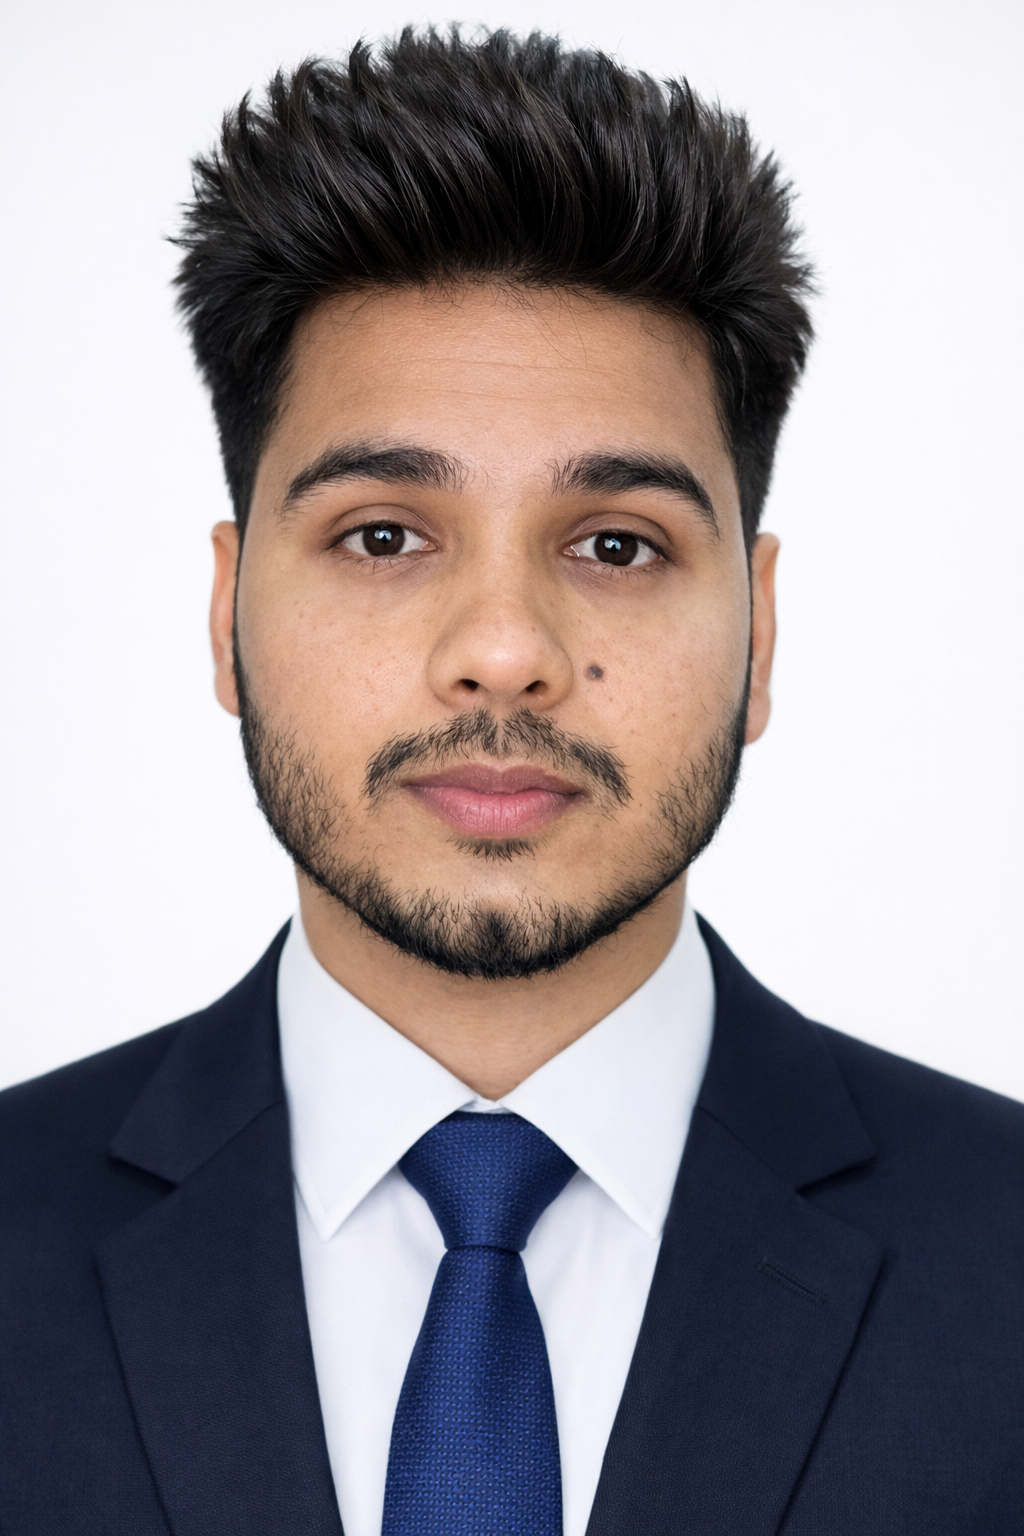
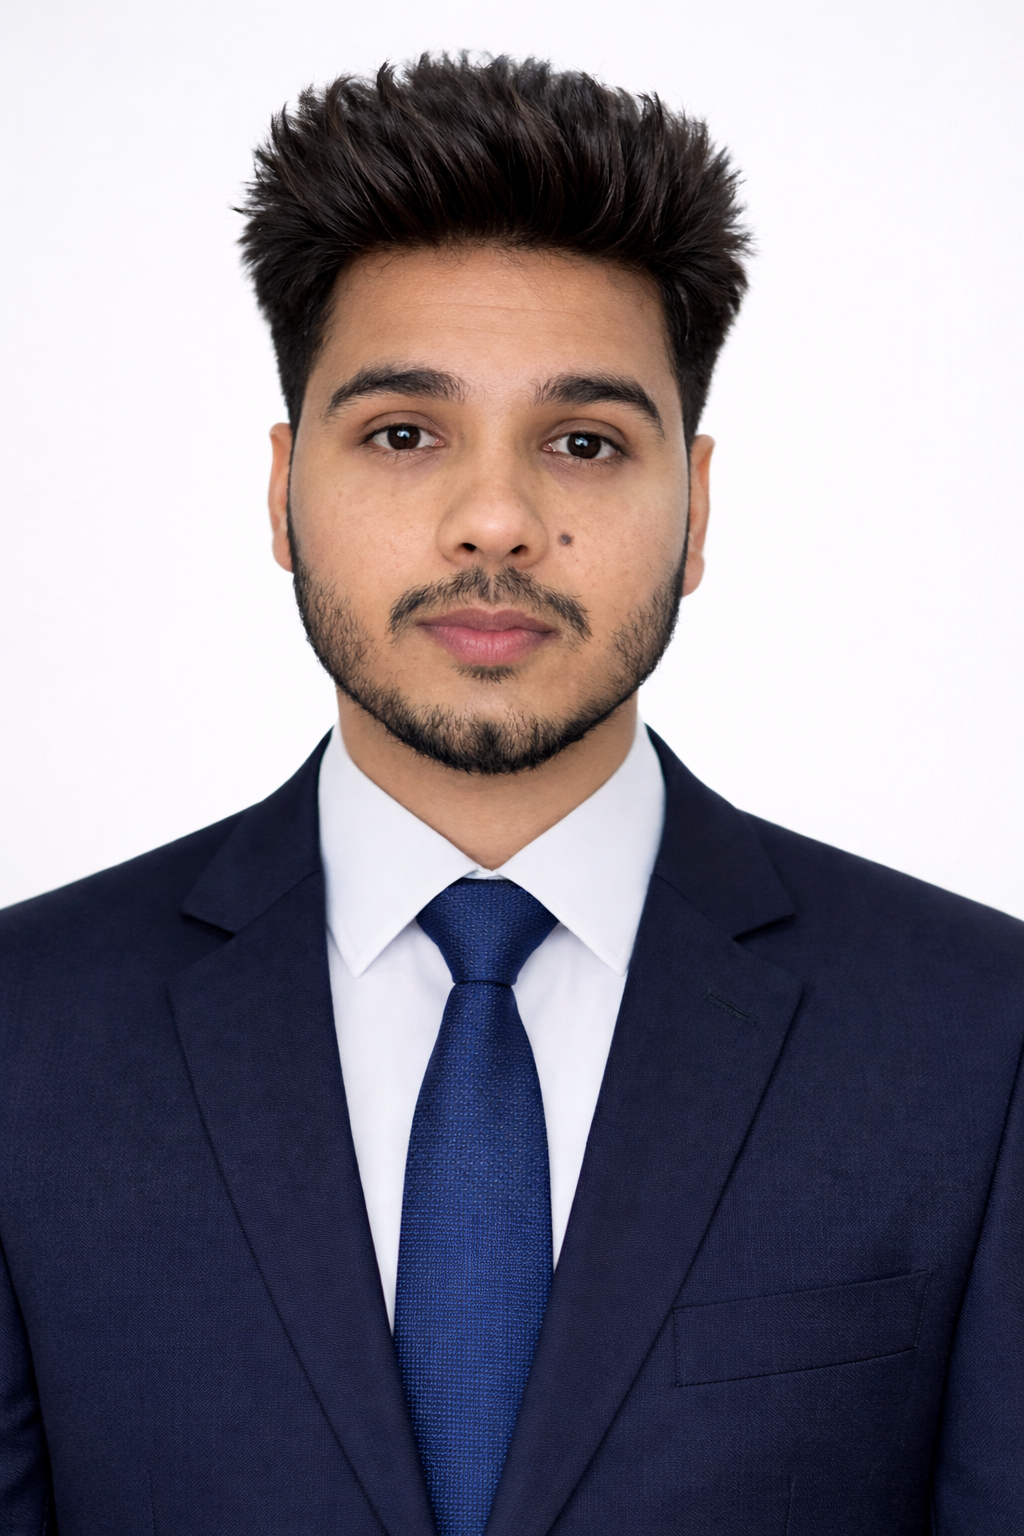
updated profile image and styling fix

diff --git a/projects.html b/projects.html
@@ -137,8 +137,10 @@
                         <span>JavaScript</span>
                     </div>
                     <div class="project-actions">
-                        <a href="https://github.com/krohitt45" class="project-link"><i class="fab fa-github"></i>
-                            GitHub</a>
+                        <a href="https://github.com/krohitt45/portfolio" class="project-link" target="_blank"><i
+                                class="fab fa-github"></i> GitHub</a>
+                        <a href="https://portfolio-sandy-five-48.vercel.app/" class="project-link" target="_blank"
+                            style="margin-left: 10px;"><i class="fas fa-external-link-alt"></i> Live</a>
                     </div>
                 </div>
             </div>

diff --git a/style.css b/style.css
@@ -239,10 +239,10 @@ nav a.active {
 }
 
 .hexagon-inner img {
-    width: 100%;
+    width: auto;
     height: 100%;
-    object-fit: contain;
-    object-position: center;
+    object-fit: cover;
+    clip-path: inset(0 3px);
     transition: 0.5s;
 }
 
